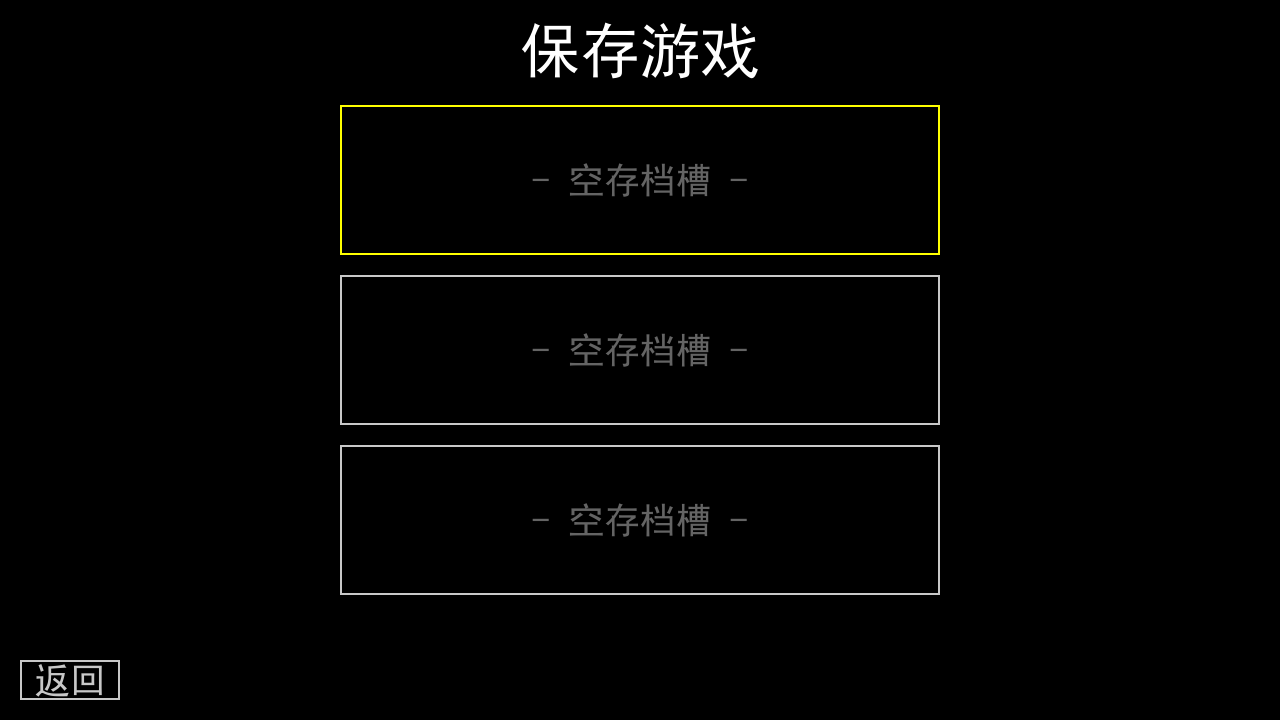
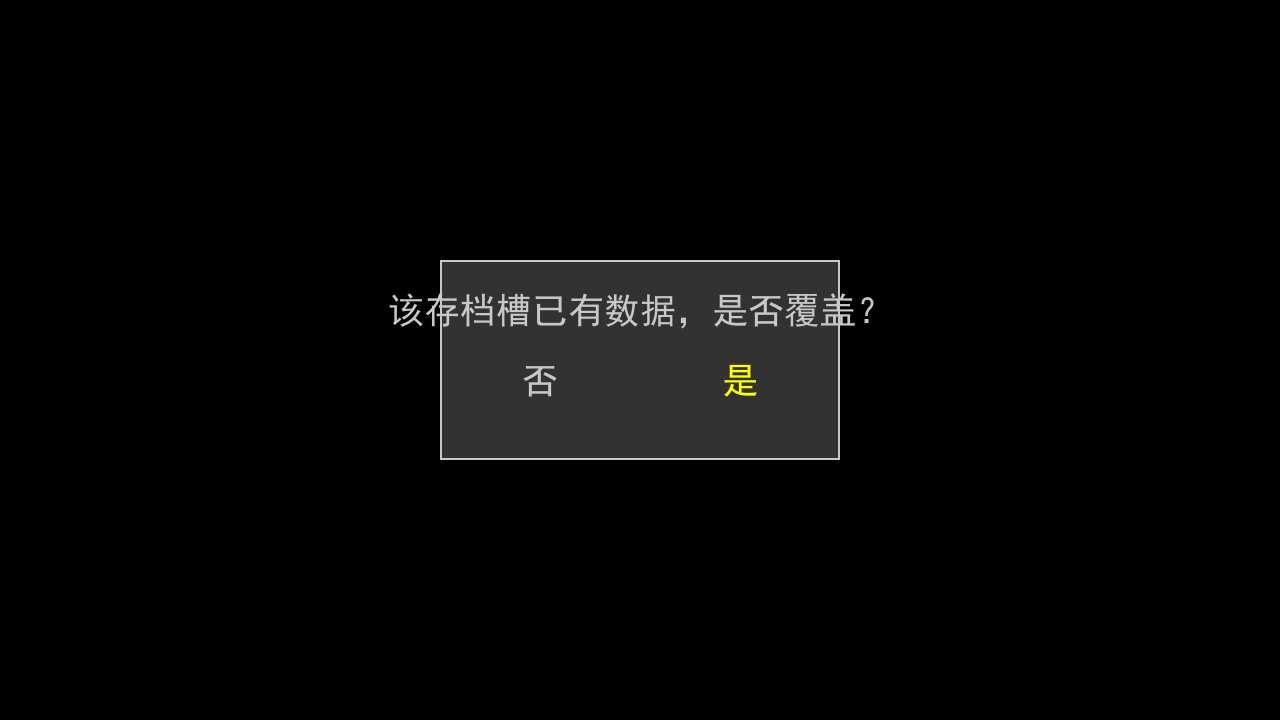
feat: zwt

diff --git a/src/modules/resource_manager.py b/src/modules/resource_manager.py
@@ -231,6 +231,30 @@ class ResourceManager:
             pygame.mixer.music.load(music_path)
             pygame.mixer.music.play(loops)
             
+    def play_map_music(self, map_name: str, loops: int = -1):
+        """播放地图特定的背景音乐
+        
+        如果地图有特定的背景音乐则播放，否则播放默认背景音乐
+        
+        Args:
+            map_name: 地图名称
+            loops: 循环次数,-1表示无限循环
+        """
+        if not pygame.mixer.get_init():
+            return
+            
+        map_music_path = self._find_map_music_file(map_name)
+        if map_music_path:
+            map_music_name = f"map_{map_name}"
+            full_path = self.load_music(map_music_name, map_music_path)
+            if full_path:
+                pygame.mixer.music.load(full_path)
+                pygame.mixer.music.play(loops)
+            else:
+                self.play_music("background", loops)
+        else:
+            self.play_music("background", loops)
+            
     def stop_music(self):
         """停止当前播放的音乐"""
         if not pygame.mixer.get_init():
@@ -353,6 +377,34 @@ class ResourceManager:
             if os.path.exists(full_path):
                 return file_path
         return None
+        
+    def _find_map_music_file(self, map_name):
+        """查找地图特定的背景音乐文件
+        
+        Args:
+            map_name: 地图名称（如 simple_map, ocean_map）
+            
+        Returns:
+            str: 找到的音乐文件相对路径，如果没有找到返回None
+        """
+        map_bgm_mapping = {
+            "simple_map": "forest",
+            "ocean_map": "ocean",
+            "desert_map": "desert",
+            "cave_map": "cave",
+        }
+        
+        bgm_name = map_bgm_mapping.get(map_name)
+        if bgm_name:
+            folder_path = f"music/bgm/{bgm_name}"
+            full_folder_path = os.path.join(self.resource_dir, folder_path)
+            if os.path.exists(full_folder_path):
+                for fmt in ["mp3", "wav", "ogg", "flac"]:
+                    file_path = f"{folder_path}/{bgm_name}.{fmt}"
+                    full_path = os.path.join(self.resource_dir, file_path)
+                    if os.path.exists(full_path):
+                        return file_path
+        return None
     
     def _find_sound_file(self, base_name, subfolder="sfx"):
         """查找音效文件，支持多种格式
@@ -400,7 +452,7 @@ class ResourceManager:
         self.load_sound("menu_show", self._find_sound_file("menu_show"))
         
         # 设置音量
-        self.set_music_volume(0.5)  # 背景音乐音量
+        self.set_music_volume(0.8)  # 背景音乐音量
 
 # 创建全局资源管理器实例
 resource_manager = ResourceManager() 

diff --git a/src/modules/menus/map_hero_select_menu.py b/src/modules/menus/map_hero_select_menu.py
@@ -81,6 +81,7 @@ class MapHeroSelectMenu:
         
         self.maps = [
             {"id": "simple_map", "name": "森林", "unlocked": True},
+            {"id": "ocean_map", "name": "海洋", "unlocked": True},
             {"id": "desert_map", "name": "沙漠", "unlocked": False},
             {"id": "cave_map", "name": "洞穴", "unlocked": False},
         ]
@@ -102,7 +103,7 @@ class MapHeroSelectMenu:
         
     def _load_images(self):
         """加载地图和英雄的图像"""
-        # 加载地图图像
+        # 尝试加载地图图像
         self.map_images = {}
         for map_data in self.maps:
             try:
@@ -113,7 +114,9 @@ class MapHeroSelectMenu:
                     # 暂时使用临时创建的表面
                     image = pygame.Surface((self.map_icon_size, self.map_icon_size))
                     image.fill((100, 180, 100))  # 绿色代表森林
-                    if map_id == "desert_map":
+                    if map_id == "ocean_map":
+                        image.fill((50, 150, 220))  # 蓝色代表海洋
+                    elif map_id == "desert_map":
                         image.fill((220, 180, 100))  # 黄色代表沙漠
                     elif map_id == "cave_map":
                         image.fill((100, 100, 150))  # 蓝灰色代表洞穴

diff --git a/src/modules/game.py b/src/modules/game.py
@@ -150,8 +150,8 @@ class Game:
         self.camera_x = self.player.world_x
         self.camera_y = self.player.world_y
         
-        # 播放背景音乐
-        resource_manager.play_music("background", loops=-1)
+        # 播放地图特定的背景音乐
+        resource_manager.play_map_music(map_id, loops=-1)
         
     def _back_to_main_menu(self):
         """从地图和英雄选择界面返回主菜单"""